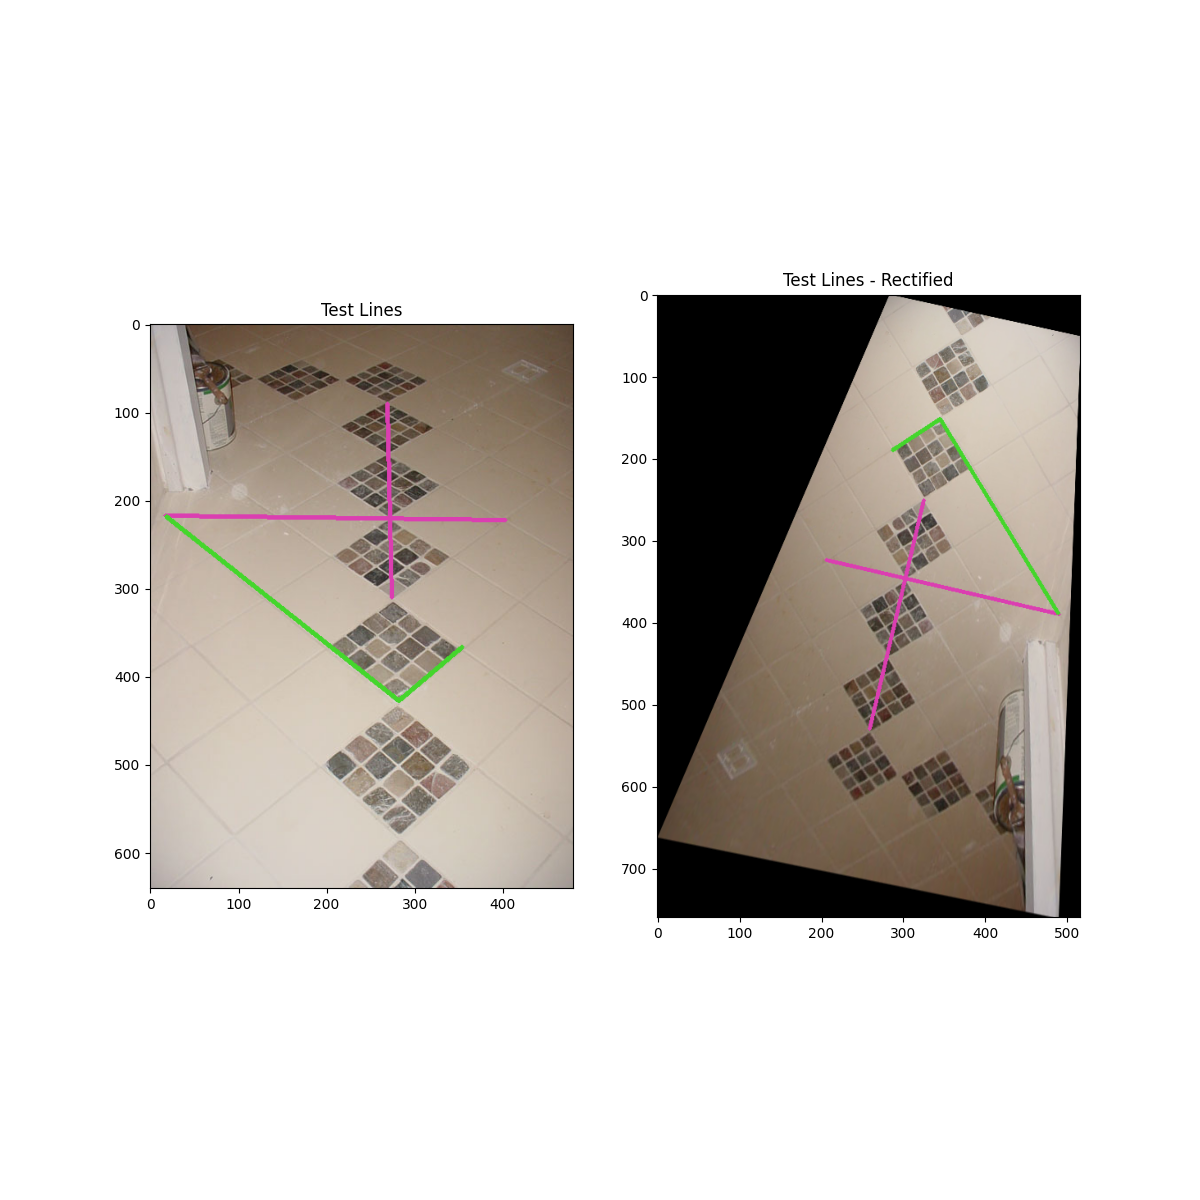
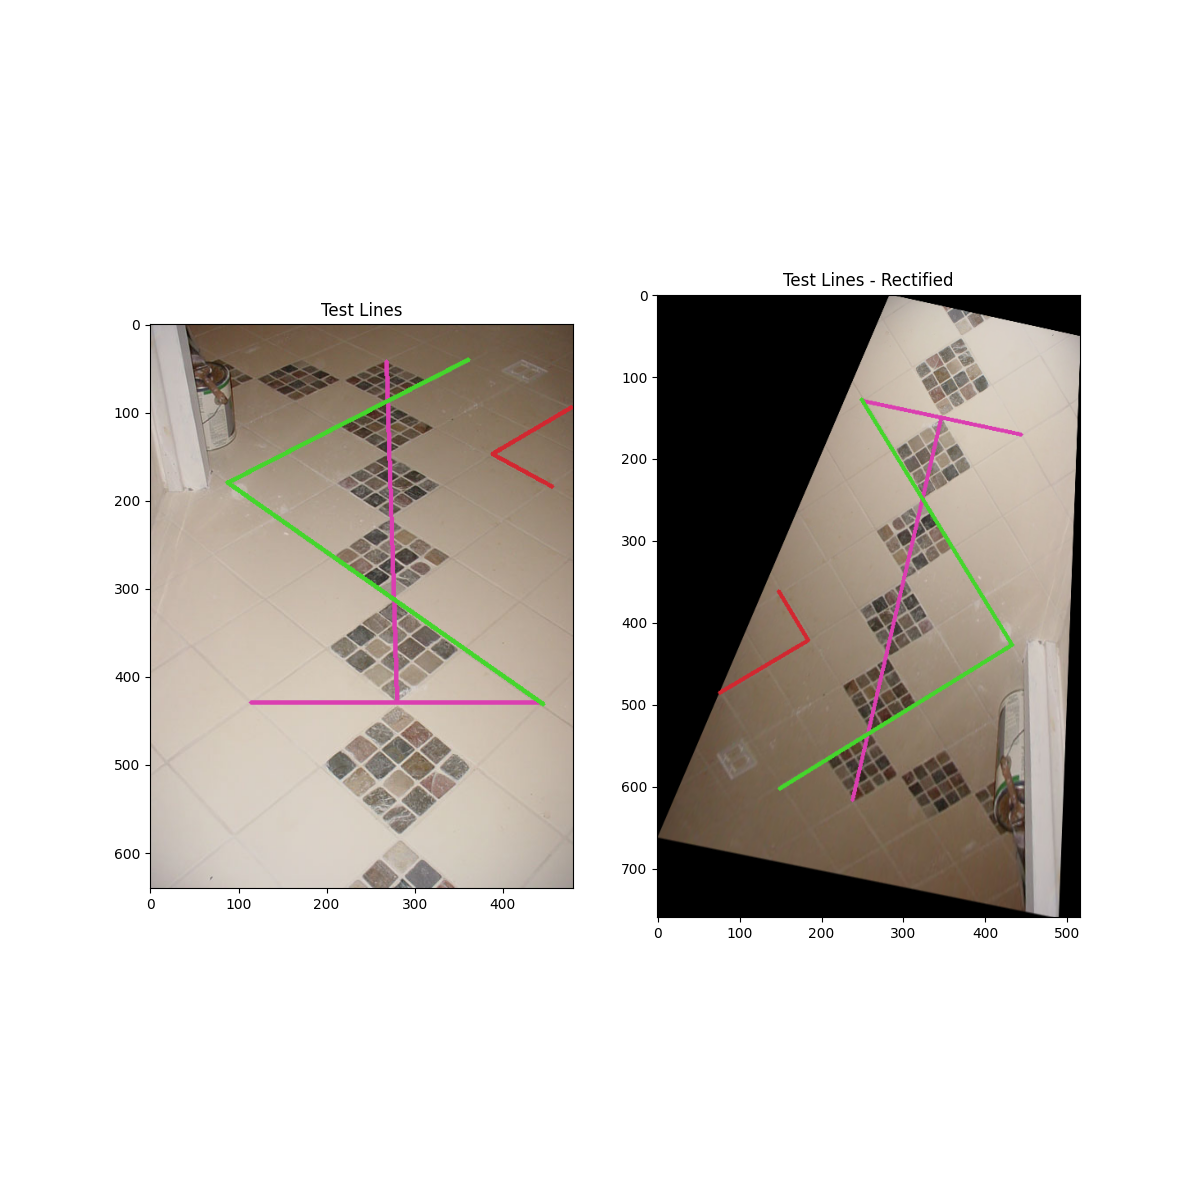
Modifying q4 and utils to handle more than 2 test line pairs. Adding new outputs and removing unnecessary ones.

diff --git a/assignments/hw1/utils/transformation_utils.py b/assignments/hw1/utils/transformation_utils.py
@@ -113,28 +113,21 @@ def calculate_test_lines_angle(
     lines = np.cross(points1, points2)
     lines /= lines[:, :, -1].reshape(n_pairs, 2, 1)
 
-    logging.info(
-        f'Cosine between original lines pair 1 - ' +
-        f'{cosine(*lines[0])}'
-    )
-    logging.info(
-        f'Cosine between original lines pair 2 - ' +
-        f'{cosine(*lines[1])}'
-    )
-
     rectified_lines = get_rectified_lines(
         lines,
         rectification_H
     ).reshape(n_pairs, 2, 3)
 
-    logging.info(
-        f'Cosine between rectified lines pair 1 - ' +
-        f'{cosine(*rectified_lines[0])}'
-    )
-    logging.info(
-        f'Cosine between rectified lines pair 2 - ' +
-        f'{cosine(*rectified_lines[1])}'
-    )
+
+    for i in range(n_pairs):
+        logging.info(
+            f'Cosine between original lines pair {i + 1} - ' +
+            f'{cosine(*lines[i])}'
+        )
+        logging.info(
+            f'Cosine between rectified lines pair {i + 1} - ' +
+            f'{cosine(*rectified_lines[i])}'
+        )
 
     rectified_img_annotated, rectification_Ht = warp_image(img, rectification_H)
 

diff --git a/assignments/hw1/q4.py b/assignments/hw1/q4.py
@@ -107,8 +107,8 @@ def direct_rectify_to_similarity(file, colors, out_path, load_annotations=False)
     calculate_test_lines_angle(
         img,
         rectification_H,
-        colors[:2],
-        n_pairs=2,
+        colors[:3],
+        n_pairs=3,
         out_path=os.path.join(out_path, 'test_lines_' + get_file_name(file))
     )
 
